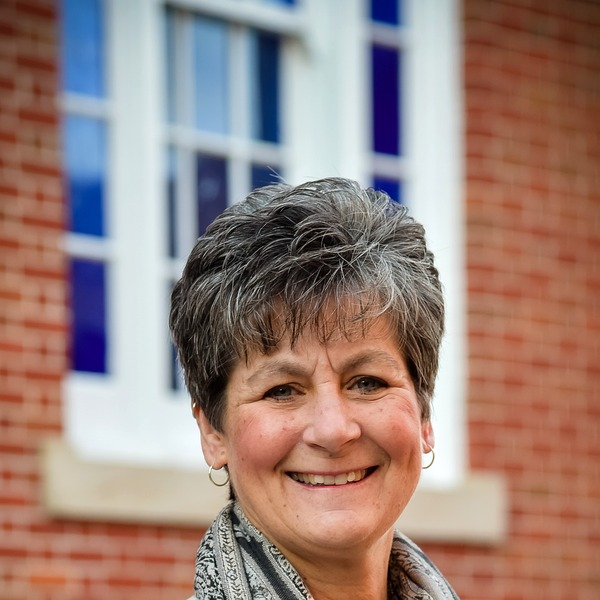
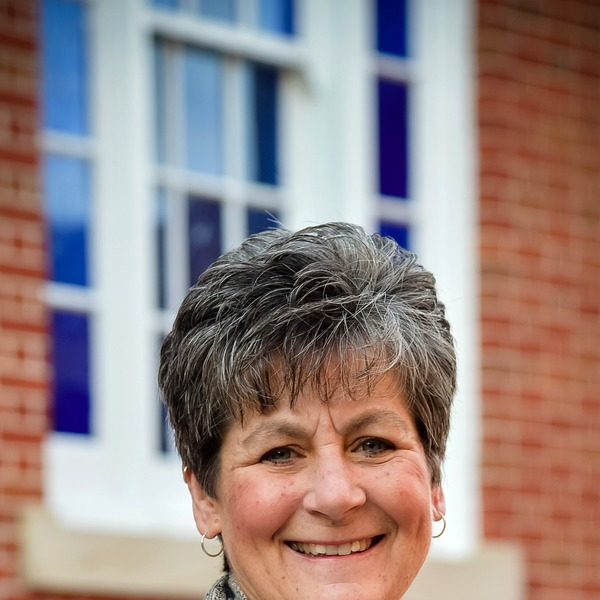
feat: clickable staff headshots with lightbox modal (v0.7.4)
- Re-crop barb.jpg and jo.jpg to proper 2400×2400 squares so faces
  are centered in the circular avatar (fixes previous non-square
  squish that made faces appear too high)
- Add barb-full.jpg and jo-full.jpg (600×900 portrait crops) for
  the modal/lightbox view
- Add StaffPhoto client component with circular thumbnail, hover
  magnify overlay, click-to-expand lightbox (blurred backdrop,
  rounded card, ESC or click-outside to close)
- Update app/page.tsx to import and use StaffPhoto for both
  Barb and Jo staff cards

Claude-Session: https://claude.ai/code/session_01FHHpJHGcBfj3755c7PkZBp

diff --git a/app/components/StaffPhoto.tsx b/app/components/StaffPhoto.tsx
@@ -1,0 +1,96 @@
+"use client";
+
+import { useState, useEffect } from "react";
+import Image from "next/image";
+
+interface StaffPhotoProps {
+  thumbSrc: string;
+  fullSrc: string;
+  name: string;
+  size?: number;
+}
+
+export default function StaffPhoto({ thumbSrc, fullSrc, name, size = 80 }: StaffPhotoProps) {
+  const [open, setOpen] = useState(false);
+
+  // Close on Escape
+  useEffect(() => {
+    if (!open) return;
+    const onKey = (e: KeyboardEvent) => { if (e.key === "Escape") setOpen(false); };
+    window.addEventListener("keydown", onKey);
+    return () => window.removeEventListener("keydown", onKey);
+  }, [open]);
+
+  return (
+    <>
+      {/* Circular thumbnail — click to expand */}
+      <button
+        onClick={() => setOpen(true)}
+        className="group relative rounded-full overflow-hidden focus:outline-none focus-visible:ring-2 focus-visible:ring-[#00abc9] focus-visible:ring-offset-2"
+        style={{ width: size, height: size }}
+        aria-label={`View ${name}'s photo`}
+      >
+        <Image
+          src={thumbSrc}
+          alt={name}
+          width={size}
+          height={size}
+          className="object-cover w-full h-full"
+          style={{ width: size, height: size }}
+        />
+        {/* Hover overlay */}
+        <span className="absolute inset-0 bg-black/0 group-hover:bg-black/15 transition-colors rounded-full flex items-center justify-center">
+          <svg
+            className="w-5 h-5 text-white opacity-0 group-hover:opacity-90 transition-opacity drop-shadow"
+            fill="none"
+            viewBox="0 0 24 24"
+            stroke="currentColor"
+            strokeWidth={2}
+          >
+            <path strokeLinecap="round" strokeLinejoin="round" d="M21 21l-4.35-4.35M17 11A6 6 0 1 1 5 11a6 6 0 0 1 12 0zm-2.5 3.5L17 17" />
+          </svg>
+        </span>
+      </button>
+
+      {/* Lightbox */}
+      {open && (
+        <div
+          className="fixed inset-0 z-50 flex items-center justify-center bg-black/60 backdrop-blur-sm p-4"
+          onClick={() => setOpen(false)}
+        >
+          <div
+            className="relative bg-white rounded-3xl overflow-hidden shadow-2xl"
+            onClick={(e) => e.stopPropagation()}
+            style={{ maxWidth: 360, width: "100%" }}
+          >
+            {/* Close button */}
+            <button
+              onClick={() => setOpen(false)}
+              className="absolute top-3 right-3 z-10 w-8 h-8 rounded-full bg-white/80 backdrop-blur flex items-center justify-center text-gray-500 hover:text-gray-900 hover:bg-white shadow transition-colors"
+              aria-label="Close"
+            >
+              <svg className="w-4 h-4" fill="none" viewBox="0 0 24 24" stroke="currentColor" strokeWidth={2}>
+                <path strokeLinecap="round" strokeLinejoin="round" d="M6 18L18 6M6 6l12 12" />
+              </svg>
+            </button>
+
+            {/* Full portrait */}
+            <Image
+              src={fullSrc}
+              alt={name}
+              width={360}
+              height={540}
+              className="object-cover w-full"
+              style={{ display: "block" }}
+            />
+
+            {/* Name strip */}
+            <div className="px-5 py-4 text-center">
+              <div className="font-bold text-gray-900">{name}</div>
+            </div>
+          </div>
+        </div>
+      )}
+    </>
+  );
+}

diff --git a/app/page.tsx b/app/page.tsx
@@ -1,6 +1,7 @@
 import Link from "next/link";
 import Image from "next/image";
 import { getUserAndRole } from "@/lib/get-user-role";
+import StaffPhoto from "@/app/components/StaffPhoto";
 
 export default async function Home() {
   const { user } = await getUserAndRole();
@@ -143,19 +144,17 @@ export default async function Home() {
       {/* ── Meet the team ── */}
       <section className="max-w-2xl mx-auto px-5 py-9">
         <h2 className="text-[10px] font-bold uppercase tracking-widest text-gray-400 mb-6 text-center">
-          Questions? We're here to help
+          Questions? We&#39;re here to help
         </h2>
         <div className="grid grid-cols-1 sm:grid-cols-2 gap-4">
           {/* Barb */}
           <div className="bg-white border border-gray-200 rounded-2xl p-5 flex flex-col items-center text-center">
             <div className="mb-3">
-              <Image
-                src="/staff/barb.jpg"
-                alt="Barb"
-                width={80}
-                height={80}
-                className="rounded-full object-cover shadow-sm"
-                style={{ width: 80, height: 80 }}
+              <StaffPhoto
+                thumbSrc="/staff/barb.jpg"
+                fullSrc="/staff/barb-full.jpg"
+                name="Barb"
+                size={80}
               />
             </div>
             <div className="font-bold text-gray-900 text-sm">Barb</div>
@@ -173,13 +172,11 @@ export default async function Home() {
           {/* Jo */}
           <div className="bg-white border border-gray-200 rounded-2xl p-5 flex flex-col items-center text-center">
             <div className="mb-3">
-              <Image
-                src="/staff/jo.jpg"
-                alt="Jo"
-                width={80}
-                height={80}
-                className="rounded-full object-cover shadow-sm"
-                style={{ width: 80, height: 80 }}
+              <StaffPhoto
+                thumbSrc="/staff/jo.jpg"
+                fullSrc="/staff/jo-full.jpg"
+                name="Jo"
+                size={80}
               />
             </div>
             <div className="font-bold text-gray-900 text-sm">Jo</div>
